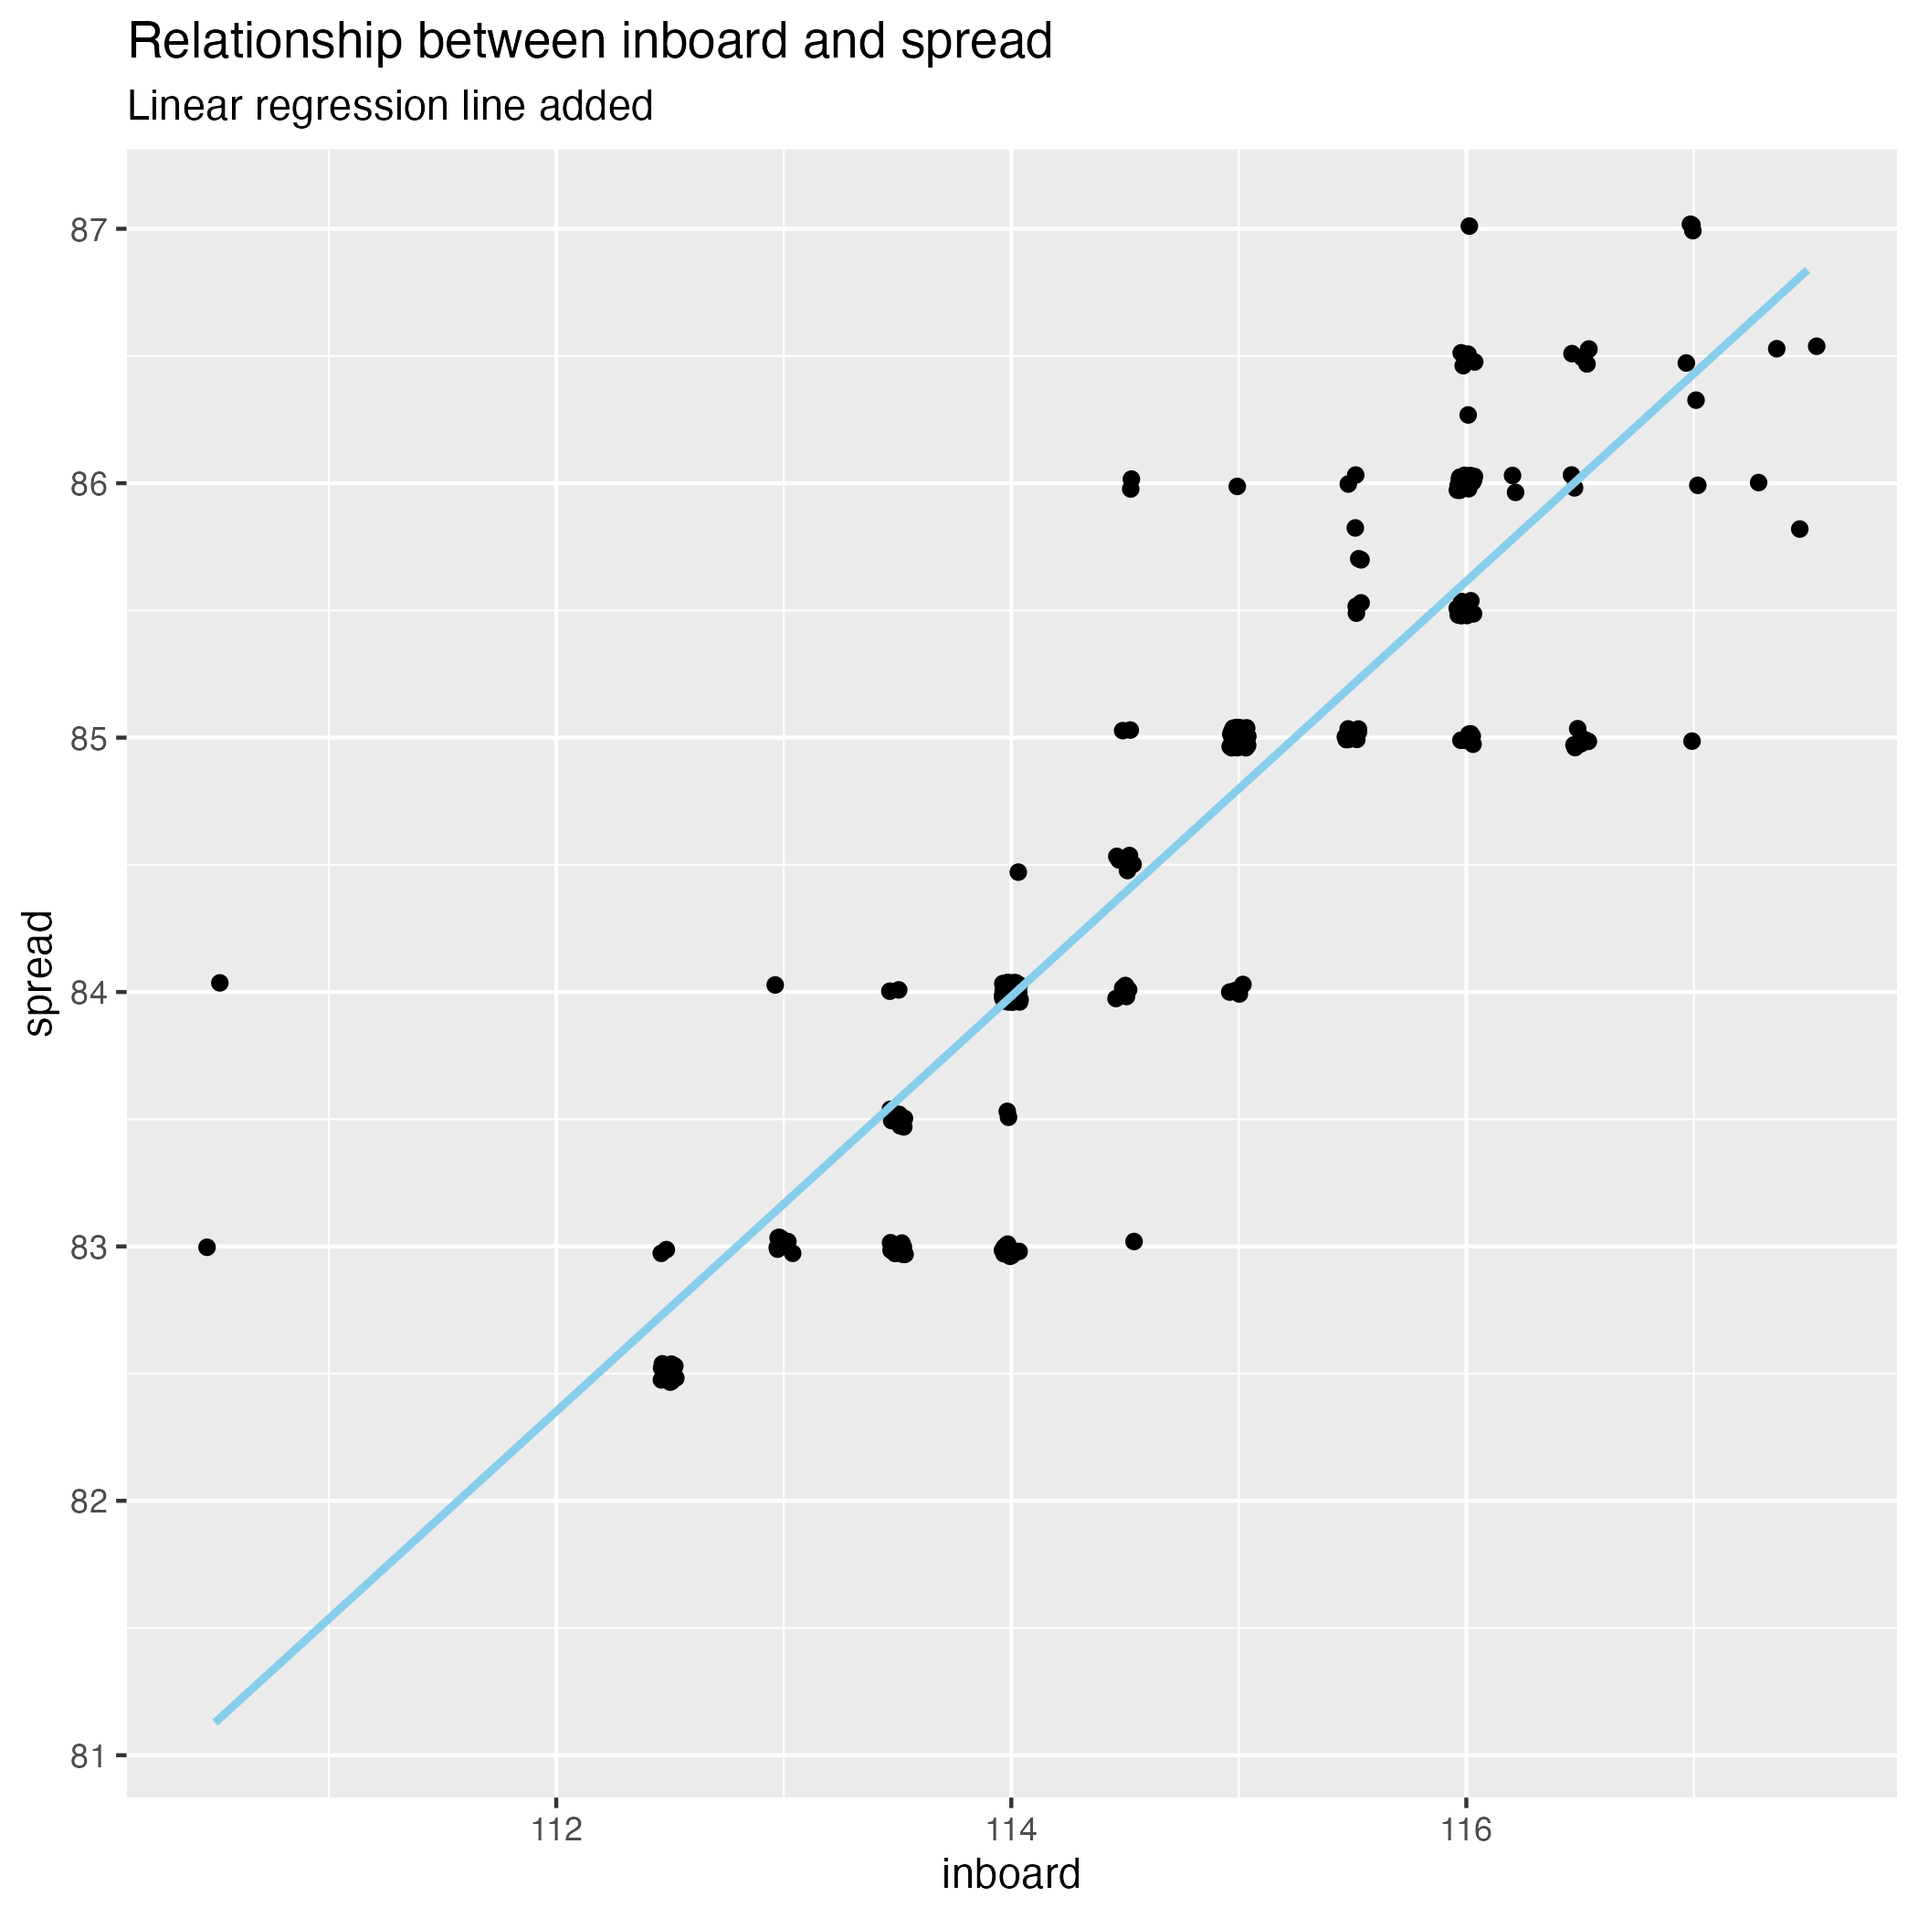
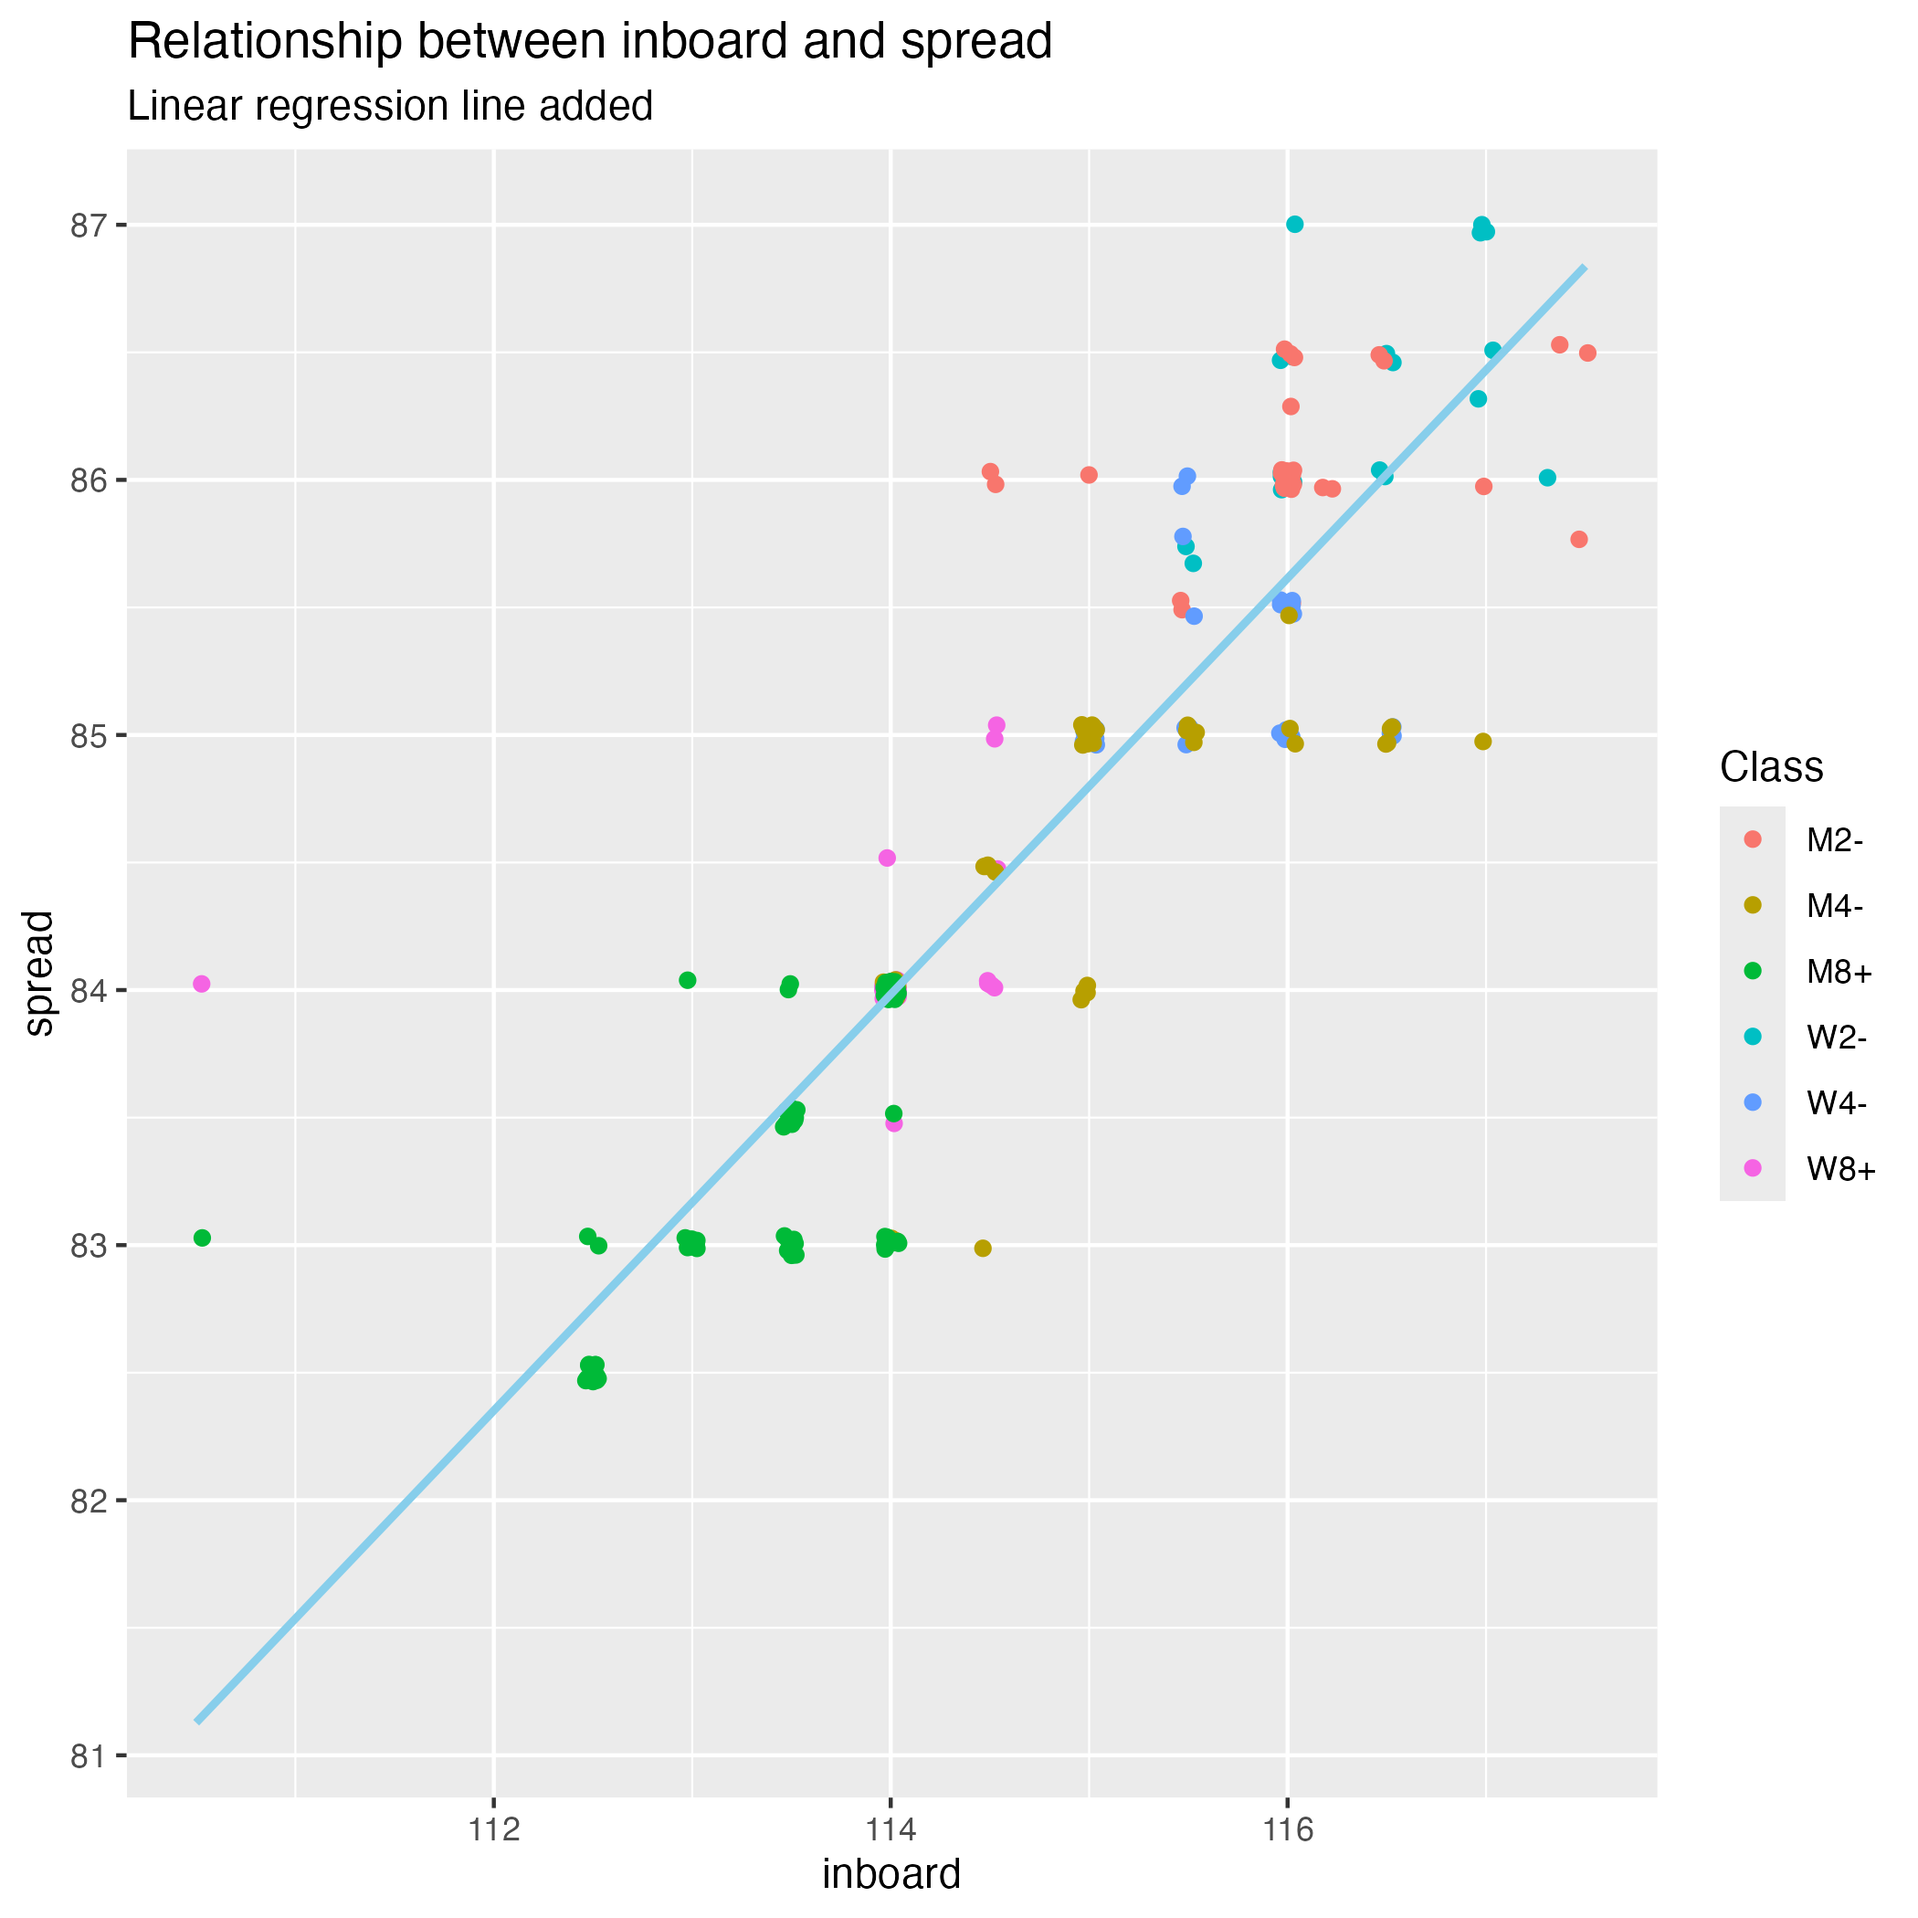
Add class to correlations

diff --git a/README.md b/README.md
@@ -41,8 +41,9 @@ the database directly.
 
 ## Erronous Data
 
-The dataset includes entries where I suspect dimensions where either not
-measured correctly or entered wrong into the original spreadsheet:
+The dataset (still) includes entries where I suspect dimensions where
+either not measured correctly or entered wrong into the original
+spreadsheet:
 
 | Class | Country | Seat | OarInboard |
 |-------|---------|------|------------|
@@ -53,6 +54,8 @@ measured correctly or entered wrong into the original spreadsheet:
 | Class | Country | Seat | OarLength |
 |-------|---------|------|-----------|
 | W1x   | GER     | 1    | 275.5     |
+
+Consider removing these data points.
 
 ## Variables
 
